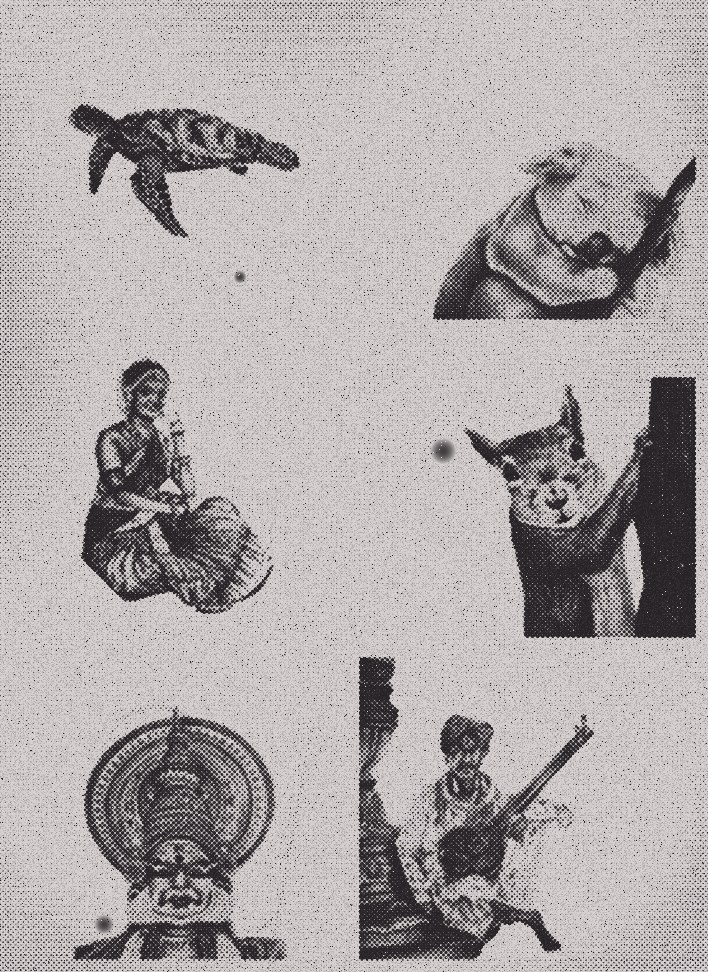
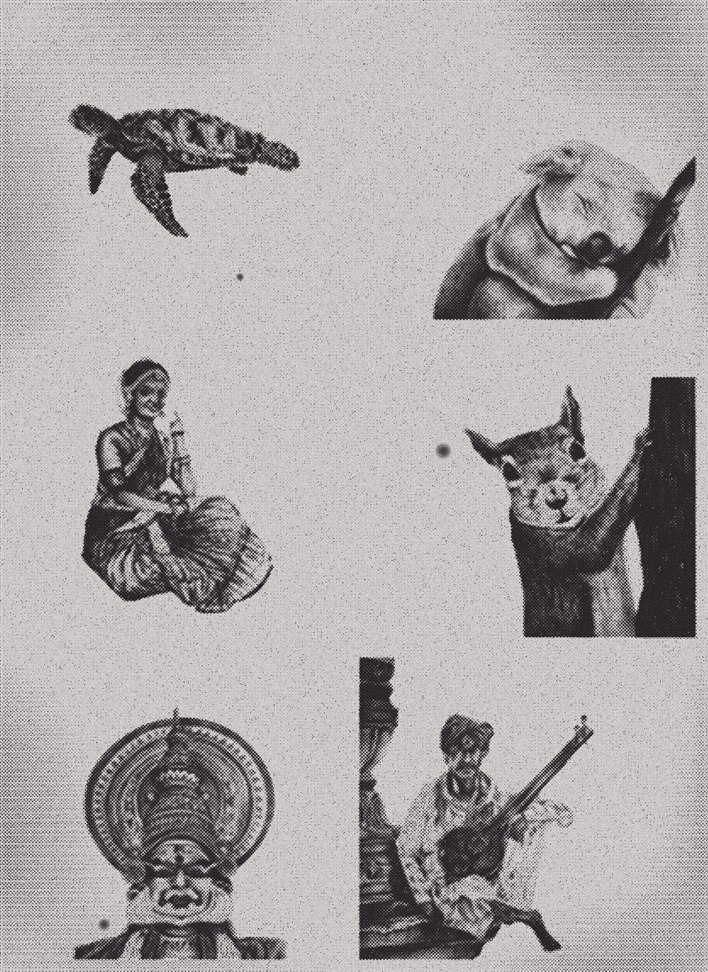
About: sketches with finer texture; The Door Step moved into the empty space on the left

diff --git a/index.html b/index.html
@@ -930,12 +930,12 @@
           <div class="abNote" style="left: 432px; top: 506px; width: 250px; transform: rotate(-3deg)">“typical” — a short<br>film poster, AGR Reels</div>
           <svg class="doodle" style="left: 600px; top: 470px" width="40" height="44" viewBox="0 0 40 44" aria-hidden="true"><path d="M8 40 C 22 36, 30 24, 28 6 M 21 13 C 24 10, 26 7, 28 4 C 30 8, 32 11, 35 13"></path></svg>
           <!-- small: The Door Step -->
-          <figure class="abCopy" style="left: 514px; top: 640px; transform: rotate(7deg)">
+          <figure class="abCopy" style="left: 110px; top: 560px; transform: rotate(-5deg)">
             <div class="tear"><img src="assets/about/copy-doorstep.jpg" alt="Poster for The Door Step, a film by AGR Reels, as a photocopy" width="134" height="190"></div>
           </figure>
-          <span class="abTape" style="left: 550px; top: 626px; width: 64px; transform: rotate(-10deg)"></span>
-          <div class="abNote" style="left: 350px; top: 820px; width: 190px; transform: rotate(-2deg)">“the door step”</div>
-          <svg class="doodle" style="left: 494px; top: 800px" width="40" height="30" viewBox="0 0 40 30" aria-hidden="true"><path d="M4 22 C 16 24, 28 18, 34 6 M 26 9 C 29 8, 32 7, 35 5 C 35 9, 36 12, 37 15"></path></svg>
+          <span class="abTape" style="left: 146px; top: 546px; width: 64px; transform: rotate(6deg)"></span>
+          <div class="abNote" style="left: 300px; top: 700px; width: 190px; transform: rotate(-2deg)">“the door step”</div>
+          <svg class="doodle" style="left: 268px; top: 676px; transform: scaleX(-1)" width="40" height="30" viewBox="0 0 40 30" aria-hidden="true"><path d="M4 22 C 16 24, 28 18, 34 6 M 26 9 C 29 8, 32 7, 35 5 C 35 9, 36 12, 37 15"></path></svg>
         </div>
         </div>
         <!-- the resume, by hand (the full one downloads as a PDF) -->
@@ -944,7 +944,7 @@
             <h2 style="left: 40px; top: 30px; transform: rotate(-2deg)">pen &amp; ink</h2>
             <!-- the pen portraits (moved here from the first spread): bigger, the clean print with only a light photocopy feel -->
             <figure class="abCopy" style="left: 120px; top: 110px; transform: rotate(-3deg); filter: none">
-              <div class="tear"><img src="assets/about/pen-copy2.jpg?v=3" alt="Pen portraits: a turtle, a koala, a dancer, a squirrel, a Kathakali face and a warkari" width="500" height="687"></div>
+              <div class="tear"><img src="assets/about/pen-copy2.jpg?v=4" alt="Pen portraits: a turtle, a koala, a dancer, a squirrel, a Kathakali face and a warkari" width="500" height="687"></div>
             </figure>
             <div class="abNote" style="left: 150px; top: 830px; width: 460px; transform: rotate(-1deg); text-align: center">pen &amp; ink —<br>a turtle, a sleepy koala &amp; a few faces</div>
           </div>
